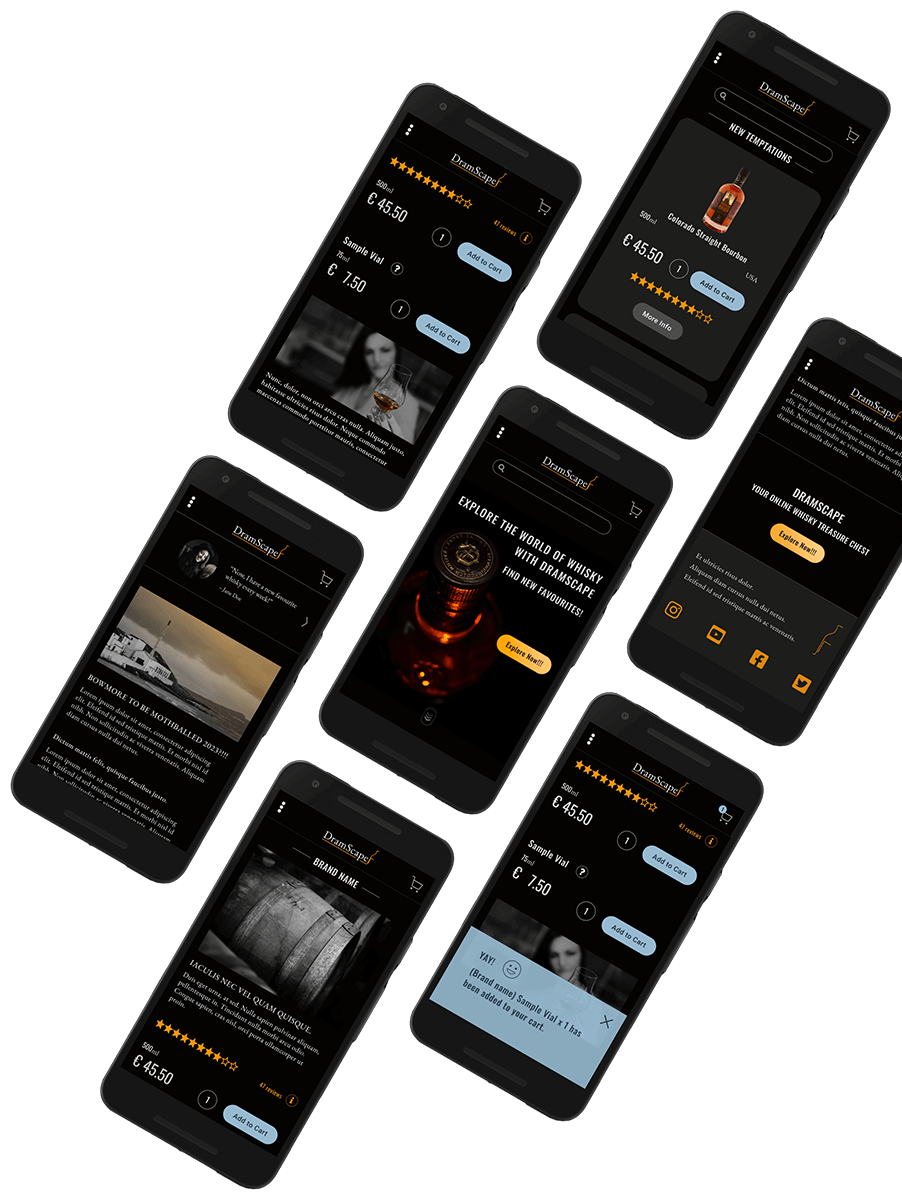
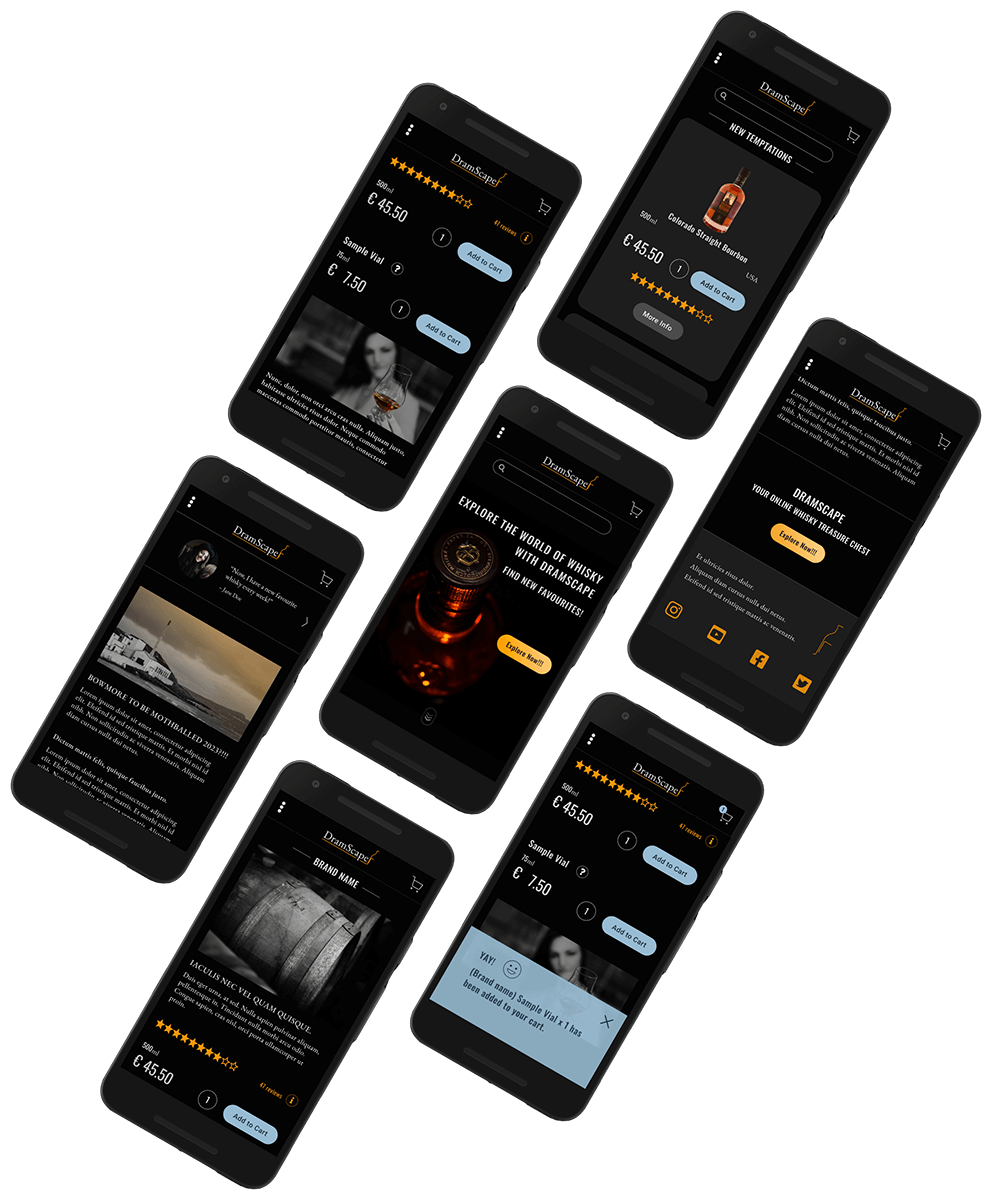
Add div to restrain UX/UI header content width on lg screens.

diff --git a/assets/pages/ux-ui.html b/assets/pages/ux-ui.html
@@ -63,26 +63,28 @@
                 </div>
             </div>
         </nav>
-        <header
-            class="container-fluid o-project-ux-header-wrapper d-flex justify-content-center align-items-xl-center px-3 px-xl-0 pt-xl-0"
-        >
-            <div class="row d-flex justify-content-center justify-content-xl-start">
-                <div class="col-10 col-lg-9 col-xl-7 text-center c-header__project-heading">
-                    <h1 class="mb-xl-2">
-                        DramScape
-                        <span class="c-header-subheading d-block py-3 py-xl-4"
-                            >An online whisky shop that guides whisky enthusiasts to new whisky favourites.</span
-                        >
-                    </h1>
-                    <p class="my-3 my-xl-3">
-                        Designed by Patrick Svensson over a period of 9 weeks with tools as Miro, Figma, Zeplin, Photoshop,
-                        Lookback
-                    </p>
-                </div>
-            </div>
+        <header class="o-project-header-wrapper">
             <div class="c-waves__project-ux"></div>
-            <div class="o-project-ux-image-wrapper">
-                <img class="c-image" src="../images/phone-screens.png" alt="" />
+            <div
+                class="container-fluid o-project-ux-header-wrapper d-flex justify-content-center align-items-xl-center px-3 px-xl-0 pt-xl-0"
+            >
+                <div class="row d-flex justify-content-center justify-content-xl-start">
+                    <div class="col-10 col-lg-9 col-xl-6 text-center c-header__project-heading">
+                        <h1 class="mb-xl-2">
+                            DramScape
+                            <span class="c-header-subheading d-block py-3 py-xl-4"
+                                >An online whisky shop that guides whisky enthusiasts to new whisky favourites.</span
+                            >
+                        </h1>
+                        <p class="my-3 my-xl-3">
+                            I created this design during a period of 9 weeks for a UX project in the Udacity Nanodegree Program,
+                            using tools such as Miro, Figma, Zeplin, Photoshop, Lookback.
+                        </p>
+                    </div>
+                </div>
+                <div class="o-project-ux-image-wrapper">
+                    <img class="c-image" src="../images/phone-screens.png" alt="Mobile design mockups" />
+                </div>
             </div>
         </header>
         <a
@@ -97,6 +99,7 @@
                 <use xlink:href="../images/message-in-a-bottle-icon.svg#messageInABottle"></use>
             </svg>
         </a>
+
         <script
             <script
             src="https://cdn.jsdelivr.net/npm/bootstrap@5.1.3/dist/js/bootstrap.bundle.min.js"

diff --git a/assets/styles/css/main.css b/assets/styles/css/main.css
@@ -288,16 +288,23 @@ p {
 }
 
 /* UX/UI Page */
-.o-project-ux-header-wrapper {
+.o-project-header-wrapper {
+  min-width: 100vw;
   height: 110vh;
   position: relative;
+}
+.o-project-ux-header-wrapper {
+  max-width: 90rem;
+  height: 100%;
+  position: relative;
+  overflow: hidden;
 }
 .o-project-ux-image-wrapper {
   width: auto;
   height: 50%;
   position: absolute;
   bottom: 0;
-  right: 0;
+  right: -4rem;
 }
 @media screen and (min-width: 36em) {
   .o-project-ux-image-wrapper {
@@ -307,6 +314,11 @@ p {
 @media screen and (min-width: 75em) {
   .o-project-ux-image-wrapper {
     height: 90%;
+  }
+}
+@media screen and (min-width: 87.5em) {
+  .o-project-ux-image-wrapper {
+    right: 0;
   }
 }
 
@@ -442,7 +454,7 @@ p {
 }
 @media screen and (min-width: 75em) {
   .c-header__project-heading {
-    padding: 0 8rem 8rem 0;
+    padding: 0 0 8rem 5rem;
   }
 }
 @media (min-width: 25em) and (max-height: 42.9em) {

diff --git a/assets/styles/sass/objects/_wrappers.scss b/assets/styles/sass/objects/_wrappers.scss
@@ -156,24 +156,36 @@
 
 /* UX/UI Page */
 
-.o-project-ux {
+.o-project {
     &-header-wrapper {
+        min-width: 100vw;
         height: 110vh;
         position: relative;
     }
 
-    &-image-wrapper {
+    &-ux-header-wrapper {
+        max-width: 90rem;
+        height: 100%;
+        position: relative;
+        overflow: hidden;
+    }
+
+    &-ux-image-wrapper {
         width: auto;
         height: 50%;
         position: absolute;
         bottom: 0;
-        right: 0;
+        right: -4rem;
         @include responsive(small) {
             height: 60%;
         }
 
         @include responsive(x-large) {
             height: 90%;
+        }
+
+        @include responsive(xx-large) {
+            right: 0;
         }
     }
 }

diff --git a/assets/styles/sass/components/_header.scss b/assets/styles/sass/components/_header.scss
@@ -22,7 +22,7 @@
         }
 
         @include responsive(x-large) {
-            padding: 0 8rem 8rem 0;
+            padding: 0 0 8rem 5rem;
         }
 
         @include responsive(small-land) {
